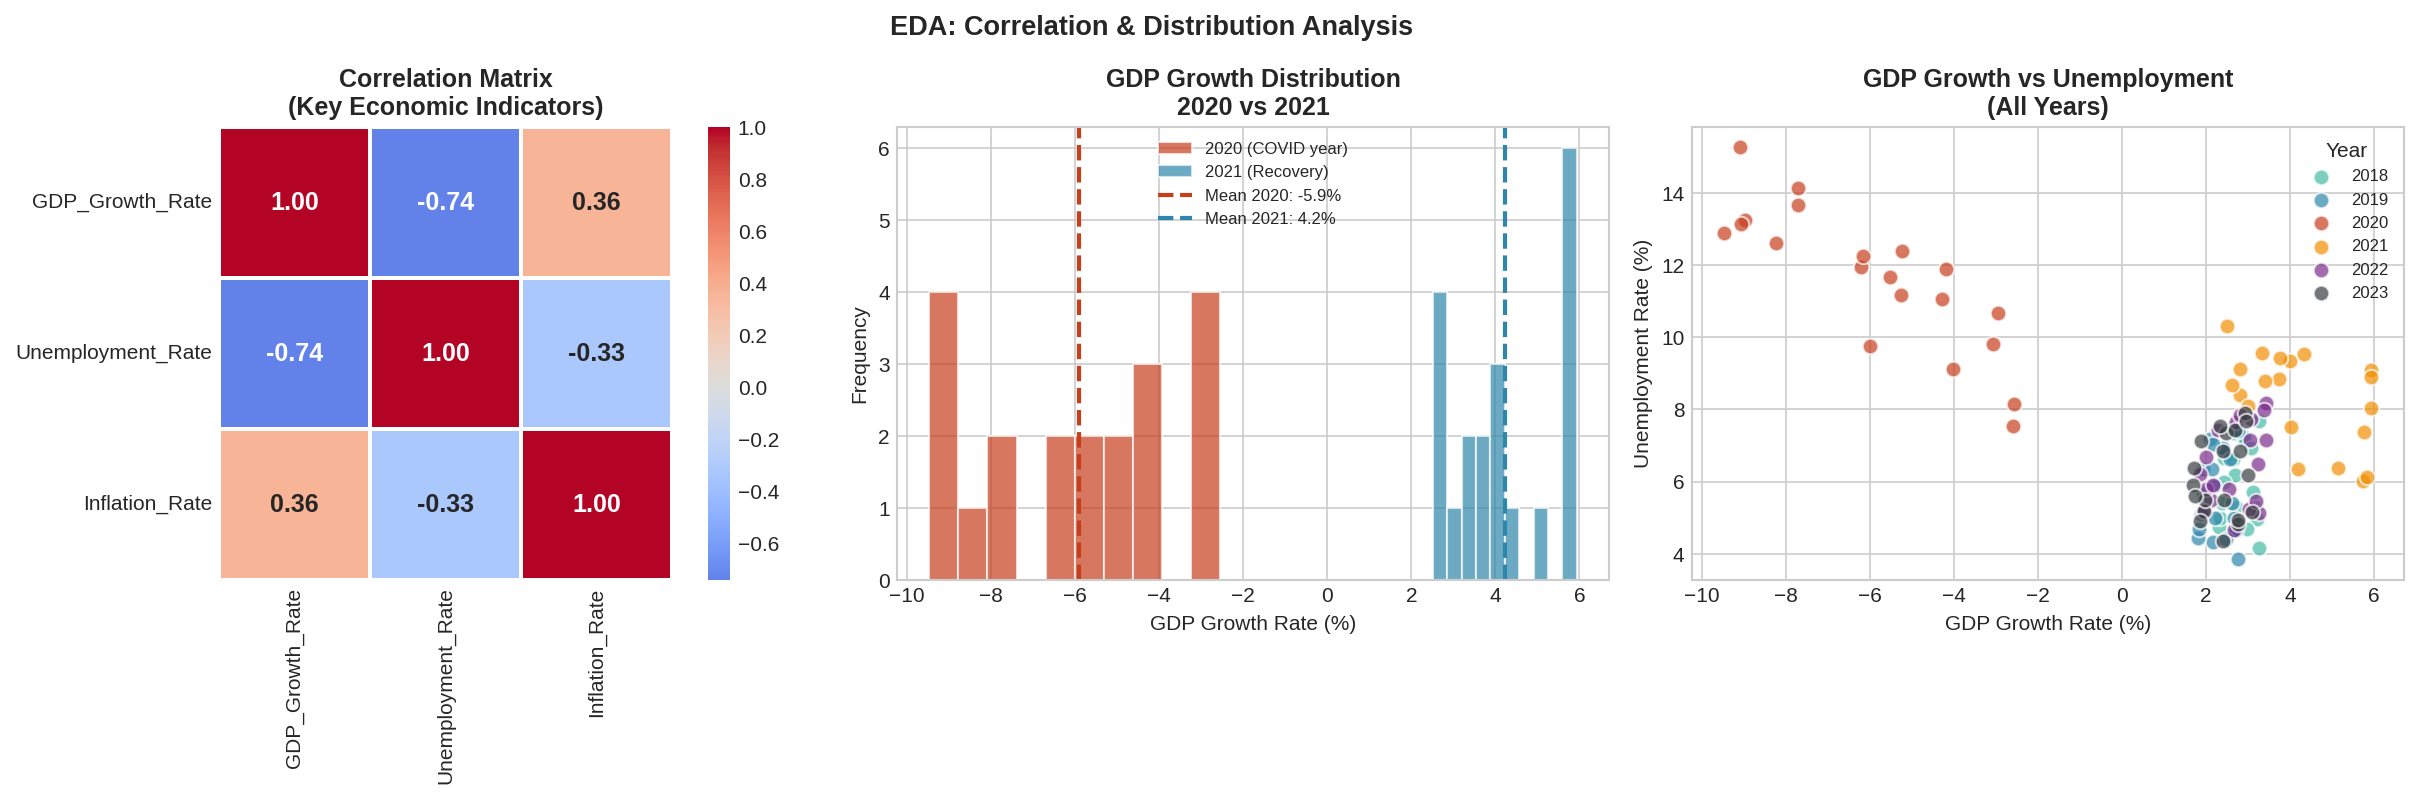
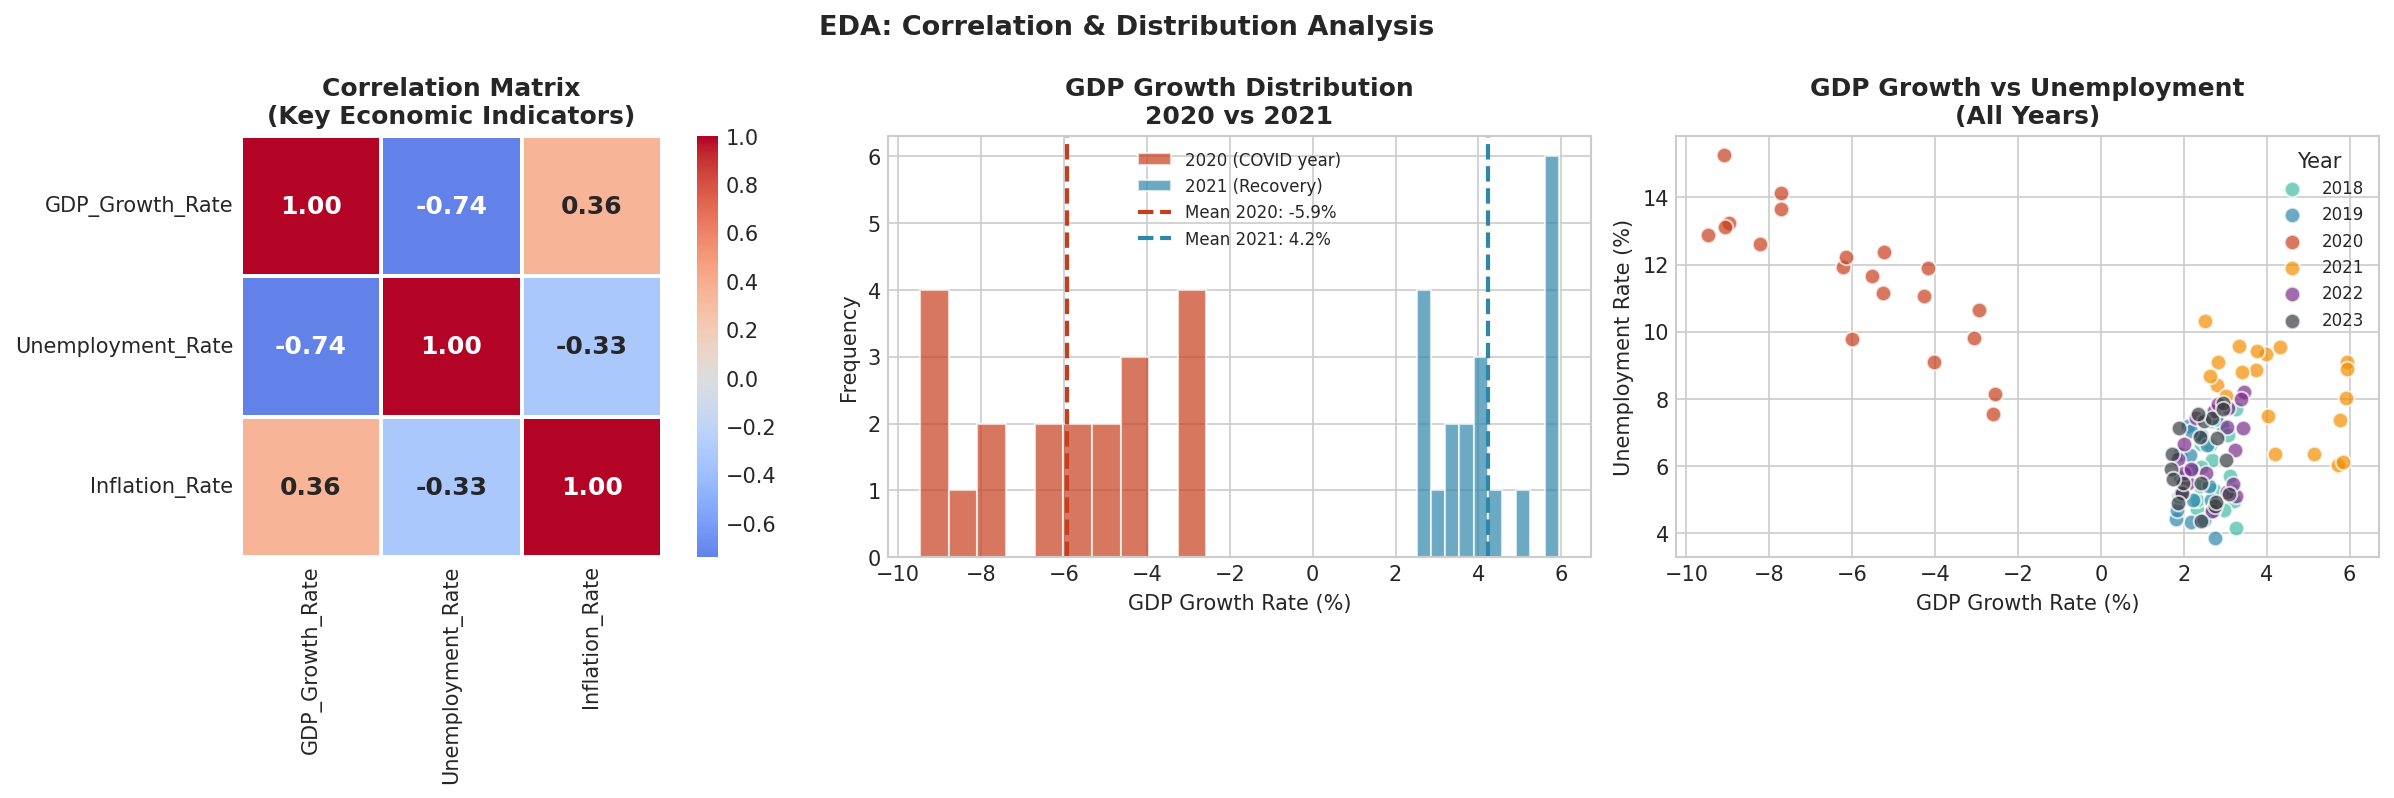
Commit Changes

diff --git a/covid_economic_analysis.py b/covid_economic_analysis.py
@@ -99,7 +99,7 @@ for country, info in countries.items():
         })
 
 df = pd.DataFrame(records)
-df.to_csv('/home/claude/projects/covid_economy/covid_economic_data.csv', index=False)
+df.to_csv('covid_economic_data.csv', index=False)
 print(f"Dataset created: {df.shape[0]} rows × {df.shape[1]} columns")
 print(df.head(10).to_string())
 
@@ -186,7 +186,7 @@ ax4.set_xlabel('Region'); ax4.set_ylabel('Avg Inflation Rate (%)')
 ax4.tick_params(axis='x', rotation=30)
 ax4.legend(title='Year', fontsize=9)
 
-plt.savefig('/home/claude/projects/covid_economy/figure1_main_dashboard.png',
+plt.savefig('figure1_main_dashboard.png',
             dpi=150, bbox_inches='tight')
 plt.close()
 print("\nFigure 1 saved.")
@@ -246,7 +246,7 @@ legend_handles = [plt.Line2D([0], [0], marker='o', color='w',
 ax2b.legend(handles=legend_handles, fontsize=8, loc='upper right')
 
 plt.tight_layout()
-plt.savefig('/home/claude/projects/covid_economy/figure2_country_deep_dive.png',
+plt.savefig('figure2_country_deep_dive.png',
             dpi=150, bbox_inches='tight')
 plt.close()
 print("Figure 2 saved.")
@@ -285,7 +285,7 @@ axes3[2].set_xlabel('GDP Growth Rate (%)'); axes3[2].set_ylabel('Unemployment Ra
 axes3[2].legend(fontsize=8, title='Year')
 
 plt.tight_layout()
-plt.savefig('/home/claude/projects/covid_economy/figure3_eda_correlation.png',
+plt.savefig('figure3_eda_correlation.png',
             dpi=150, bbox_inches='tight')
 plt.close()
 print("Figure 3 saved.")
@@ -314,7 +314,7 @@ corr_val = df[['GDP_Growth_Rate', 'Unemployment_Rate']].corr().iloc[0, 1]
 print(f"\n5. Strong negative correlation ({corr_val:.2f}) between GDP growth")
 print(f"   and unemployment — confirming Okun's Law pattern in the data.")
 
-print("\n✅ All outputs saved to: /home/claude/projects/covid_economy/")
+print("\n✅ All outputs saved to: ")
 print("   • covid_economic_data.csv")
 print("   • figure1_main_dashboard.png")
 print("   • figure2_country_deep_dive.png")